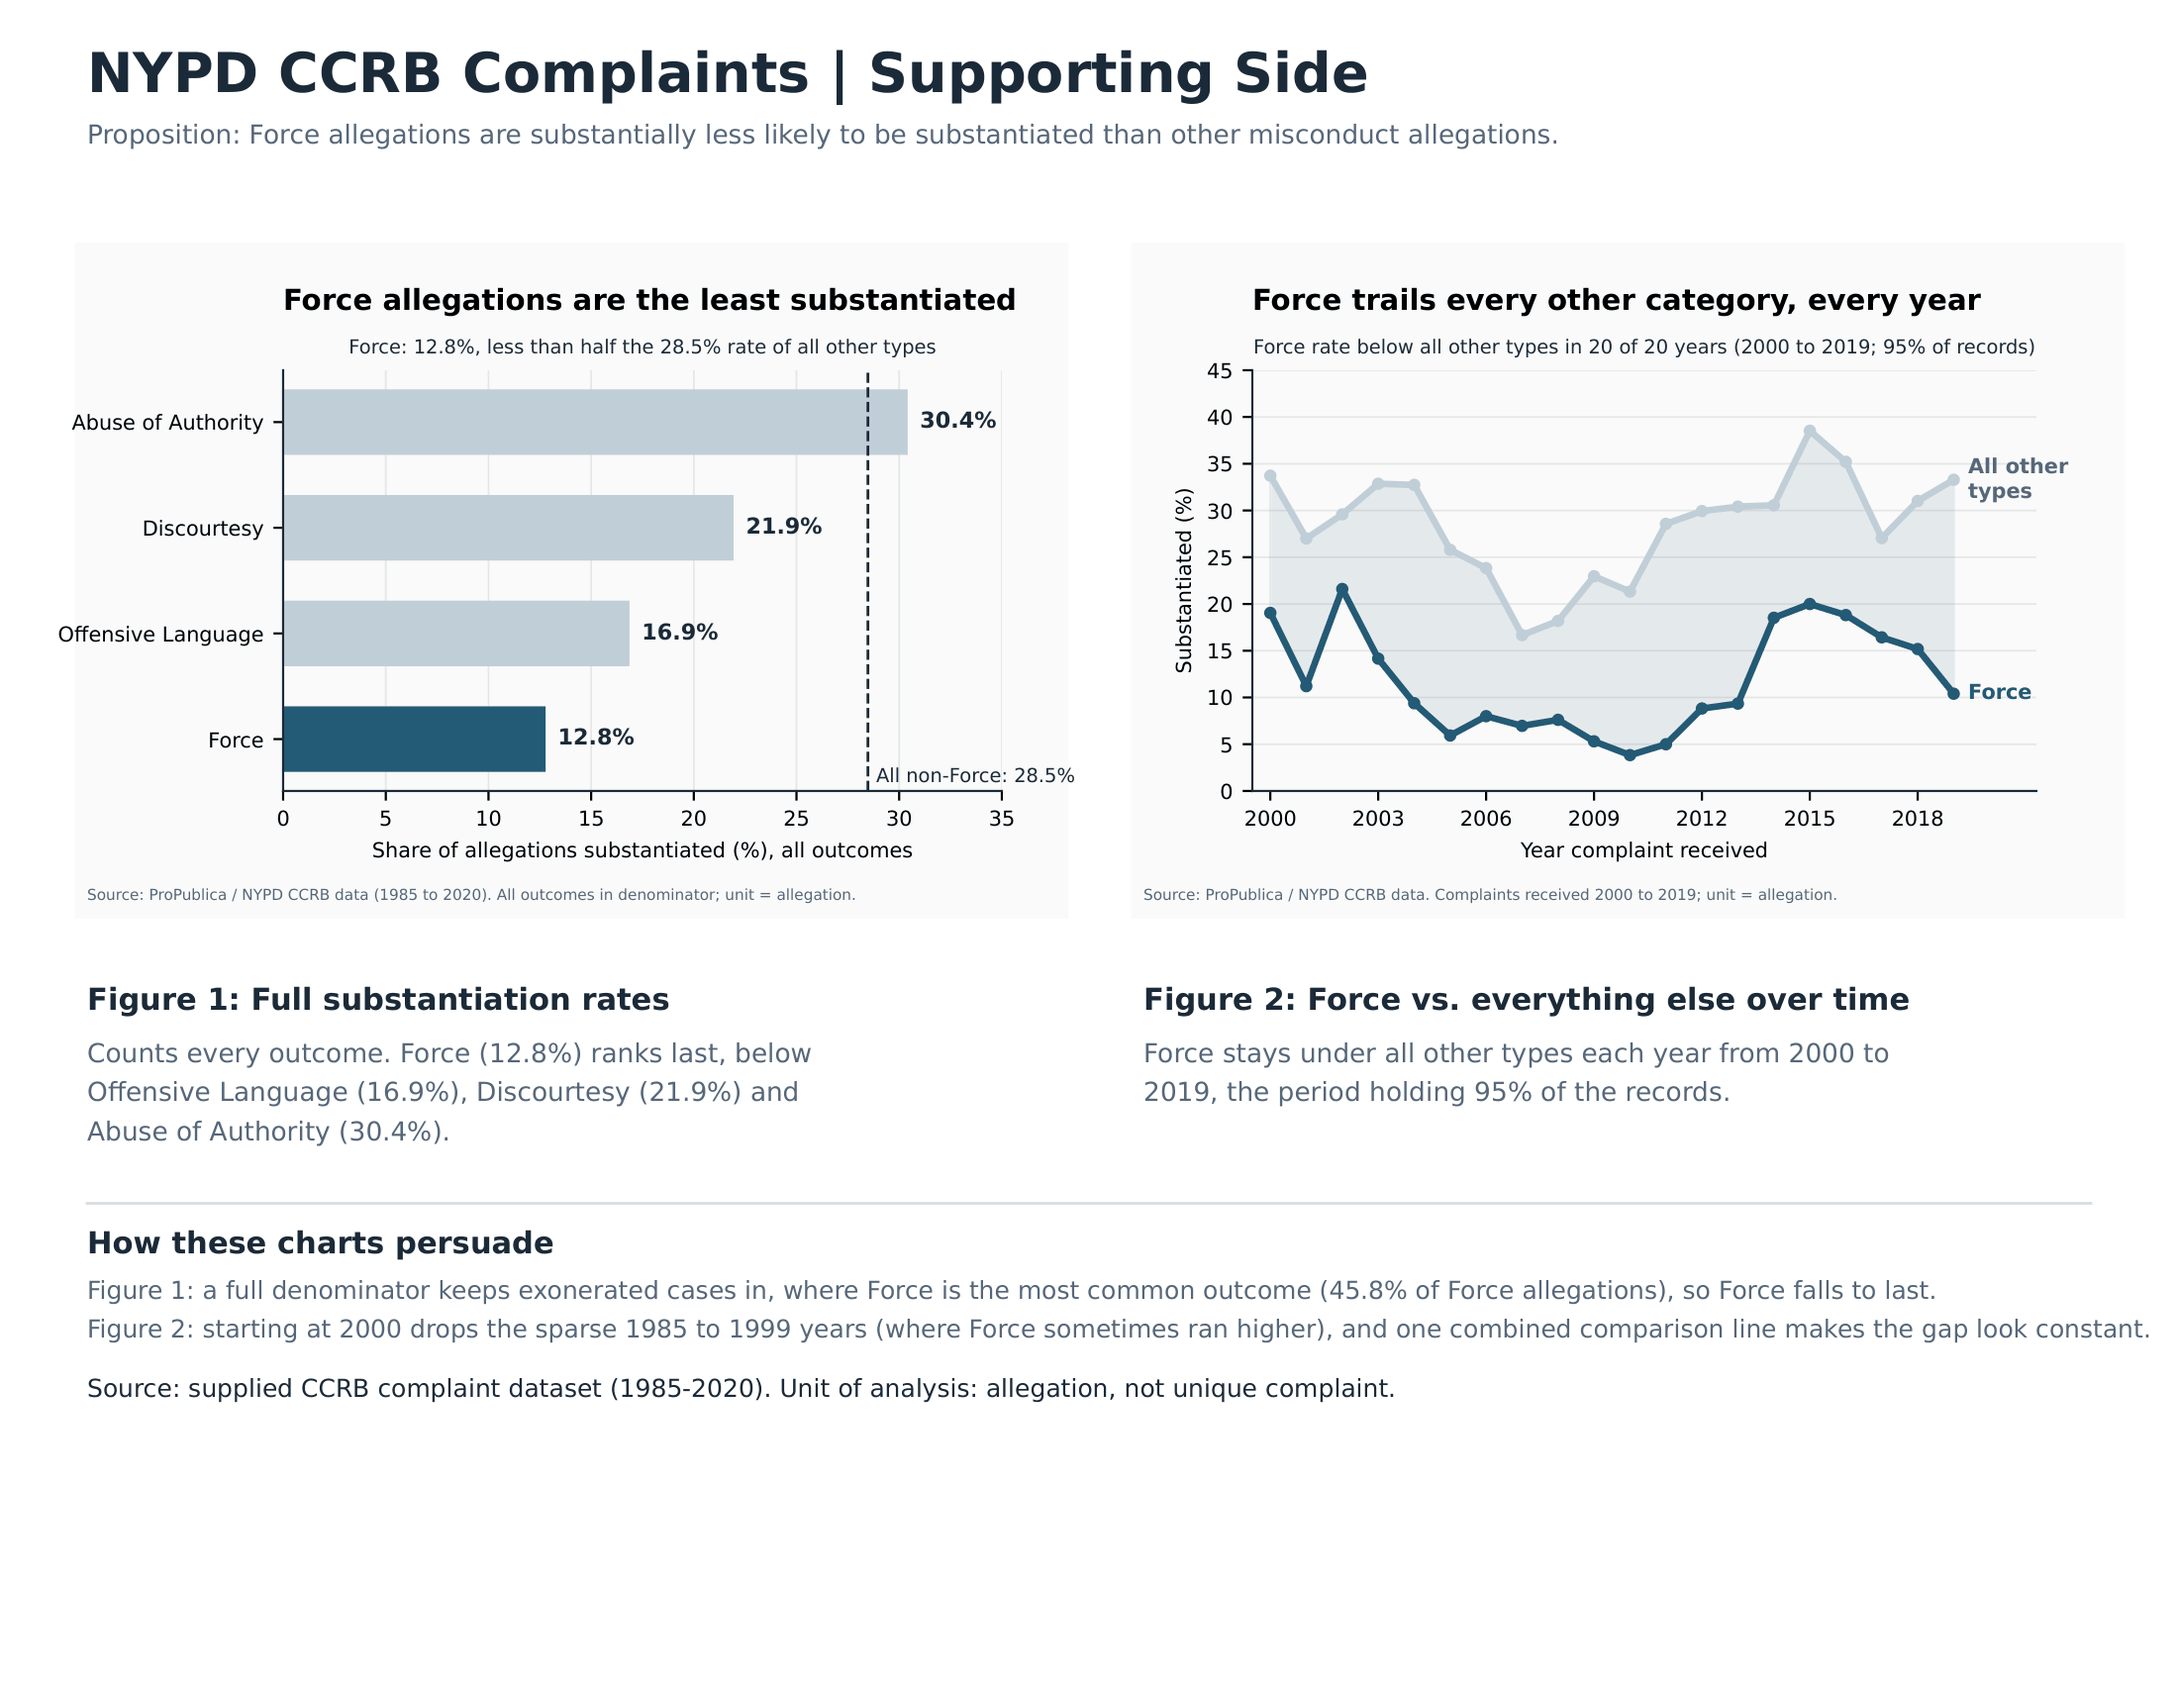
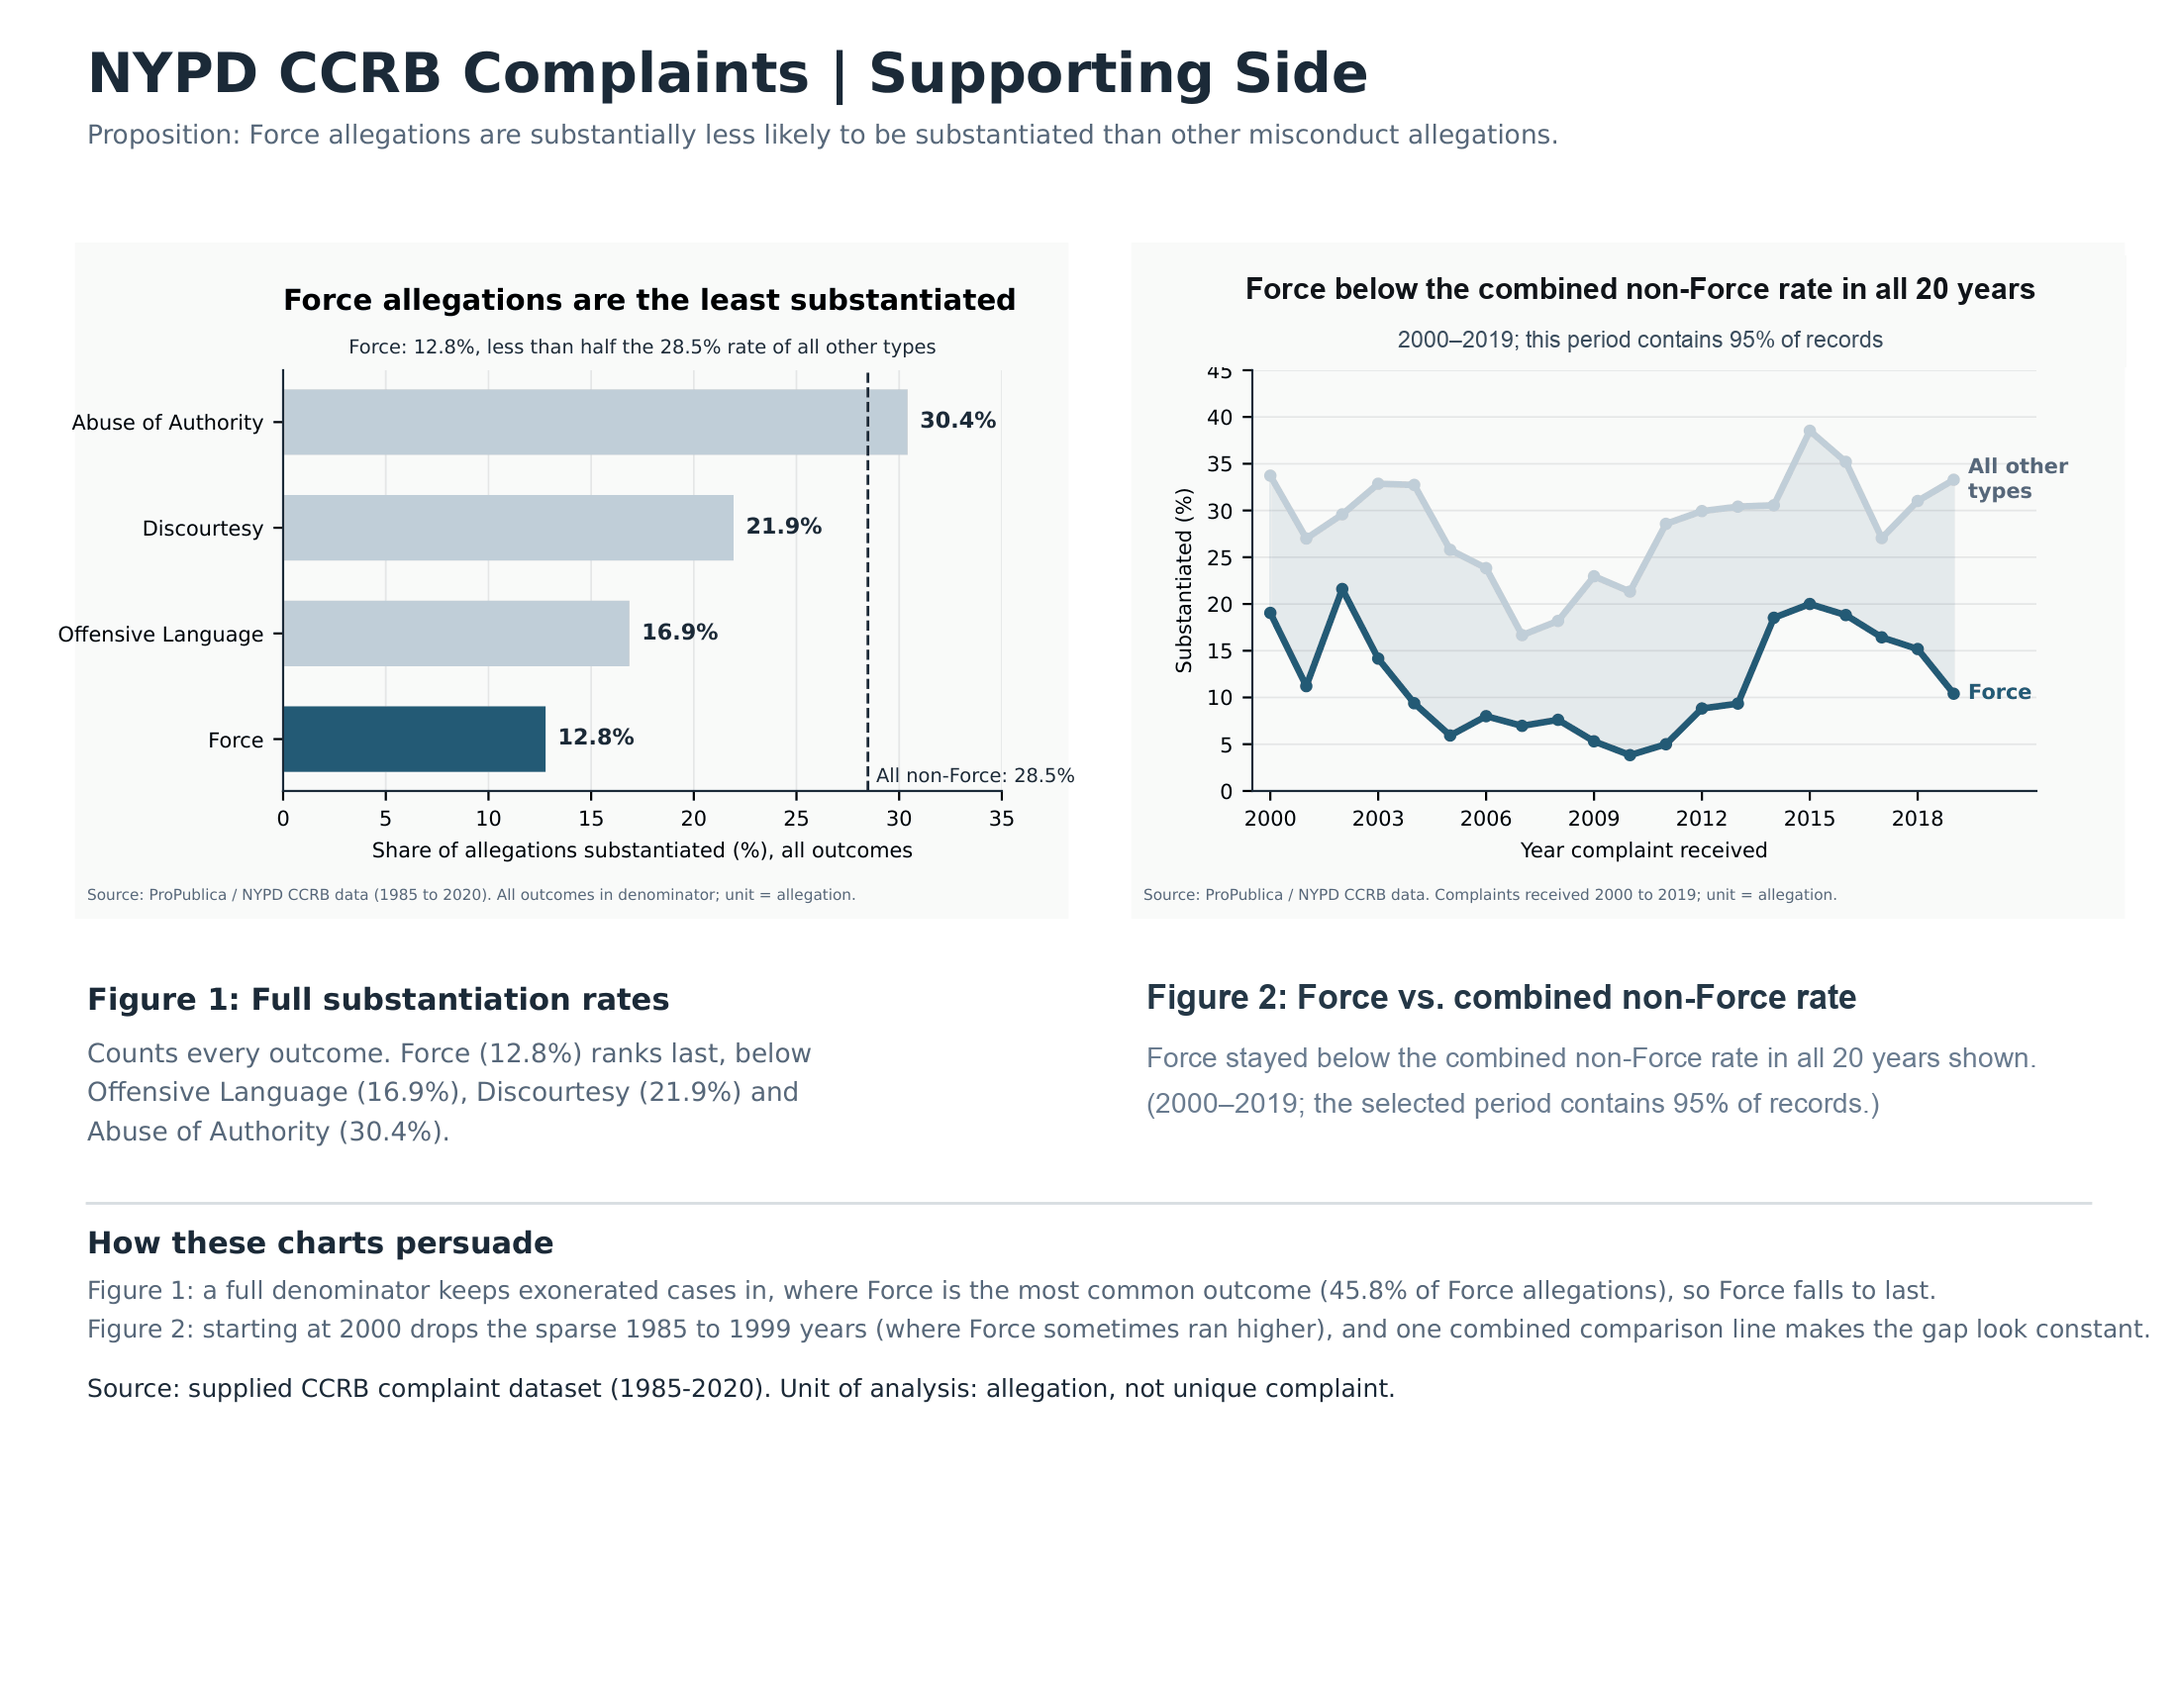
Complete supporting-side rationale and clarify comparison

Changed region(s): [[0.5255, 0.5612, 0.9273, 0.6547], [0.5564, 0.1559, 0.9273, 0.2182]]

diff --git a/index.html b/index.html
@@ -174,18 +174,26 @@ of police misconduct allegations.</h2>
 
                 <figure>
                     
-                    <img src="images/for.png" alt="Visualization supporting the proposition">
+                    <img src="images/for.png" alt="Two charts compare overall substantiation rates and annual Force rates with the combined non-Force rate.">
 
                     <figcaption>Force allegations have the lowest overall substantiation rate (<strong>12.8%</strong>)
-    and remain below other misconduct categories across the years shown.</figcaption>
+    and remained below the combined non-Force rate in all 20 years shown (2000–2019; 95% of records).</figcaption>
                 </figure>
 
                 <p>Design Decisions and Rationale:</p>
+                <p><small>Scores range from -2 (fully deceptive) to +2 (fully earnest).</small></p>
 
                 <ul>
-                    <li>RATIONALE_1</li>
-                    <li>RATIONALE_2</li>
-                    <li>RATIONALE_3</li>
+                    <li><strong>Use the substantiation rate across all recorded outcomes (score: +2).</strong>
+                        The first panel includes substantiated, unsubstantiated, and exonerated allegations in the denominator, so its 12.8% Force rate directly addresses the proposition about likelihood. Restricting the denominator to only substantiated and unsubstantiated cases would raise the Force rate to 23.6%, but that would answer a narrower question; using all outcomes makes this comparison more faithful to the claim.</li>
+                    <li><strong>Compare categories with horizontal bars on one zero-based percentage scale (score: +2).</strong>
+                        A shared scale makes the differences between Force and the other allegation categories easy to judge, and the bars start at zero so their lengths represent the rates without exaggerating small gaps. A cropped axis might make the separation look more dramatic, but it would make the visual comparison less trustworthy.</li>
+                    <li><strong>Sort categories by rate and highlight Force in dark blue (score: +1).</strong>
+                        The descending order makes the ranking quick to scan, while the dark blue bar directs attention to the category central to the proposition. A neutral palette would distribute attention more evenly, but the chosen emphasis helps the reader find Force immediately while the lighter bars and exact labels preserve the other categories for comparison.</li>
+                    <li><strong>Add a year-by-year comparison with the combined non-Force rate (score: +1).</strong>
+                        The trend panel shows that the Force rate is below the combined rate for other allegation types in all 20 years displayed. A single overall rate would be simpler, but it could hide year-to-year variation; plotting each category separately would reveal more detail, though it could make the panel harder to read.</li>
+                    <li><strong>State the comparison as a combined rate and focus on 2000–2019 (score: -1).</strong>
+                        Naming the combined non-Force rate avoids implying that Force is below every individual category, and the 20-of-20 result is easy to read. But the period covers 95% of records and leaves out sparse 1985–1999 years when Force sometimes ran higher; showing the full historical span would be more complete but would weaken the consistent trend.</li>
                 </ul>
             </section>
 
